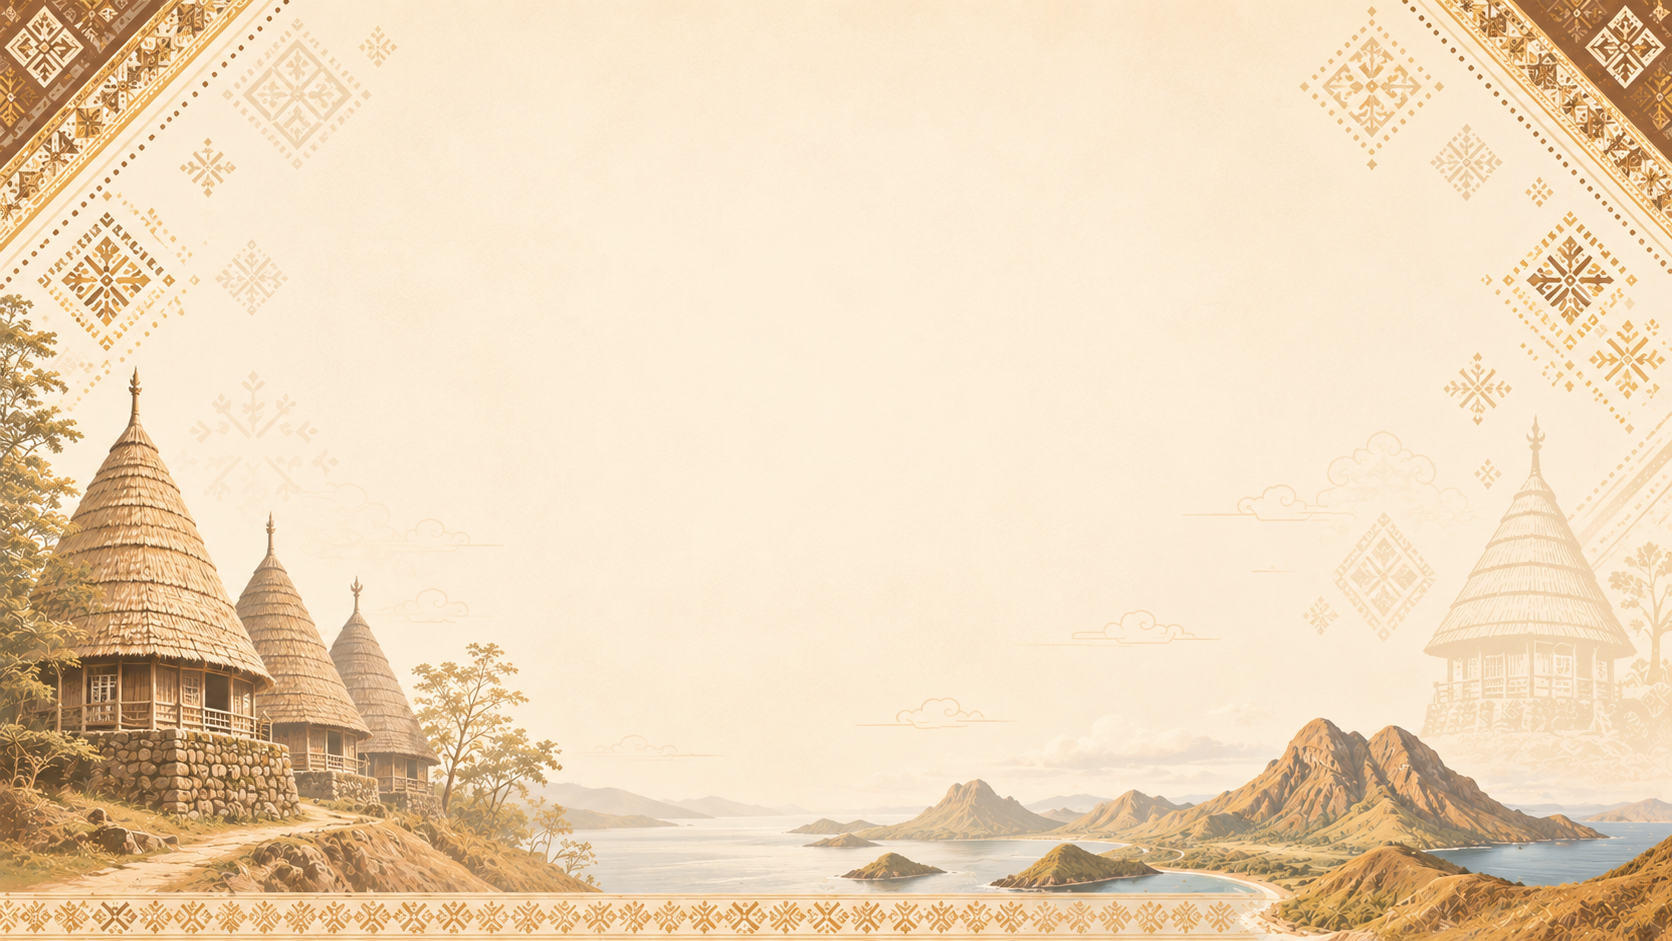
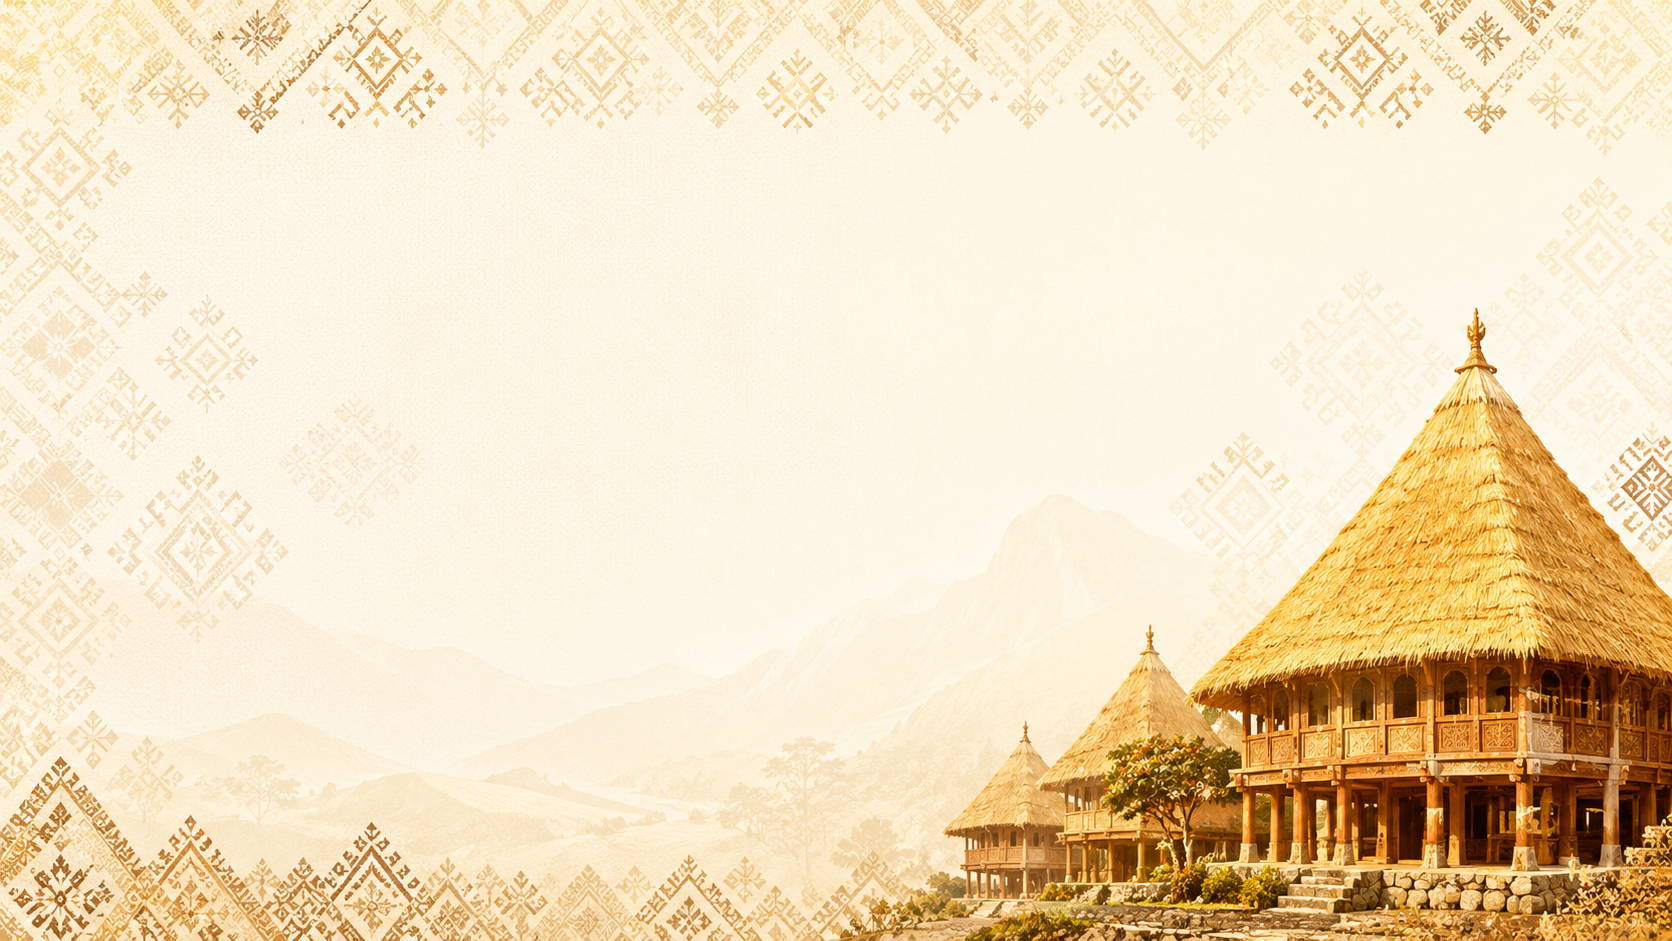
Menambahkan hero card dan menyempurnakan tampilan portofolio

diff --git a/css/style.css b/css/style.css
@@ -18,25 +18,20 @@ html{
 
 
 body{
-
     font-family:'Poppins', sans-serif;
-
     color:#4B362B;
 
     background:
     linear-gradient(
-        rgba(248,244,238,.88),
-        rgba(248,244,238,.88)
+        rgba(255,255,255,.65),
+        rgba(255,255,255,.65)
     ),
     url("../images/background-songke.png");
 
-    background-repeat:no-repeat;
-    background-size:cover;
-    background-position:center;
-    background-attachment:fixed;
-
-    background-color:#F8F4EE;
-
+    background-size: cover;
+    background-position: center;
+    background-repeat: no-repeat;
+    background-attachment: fixed;
 }
 
 
@@ -1635,4 +1630,136 @@ section{
     }
 
 }
+ /* =====================================
+   HERO CARD
+===================================== */
 
+.hero-kiri{
+
+    background:rgba(255,255,255,.72);
+
+    backdrop-filter:blur(12px);
+    -webkit-backdrop-filter:blur(12px);
+
+    border:1px solid rgba(139,94,60,.15);
+
+    border-radius:28px;
+
+    padding:45px;
+
+    box-shadow:
+    0 15px 35px rgba(0,0,0,.08);
+
+    transition:.35s;
+
+}
+
+
+.hero-kiri:hover{
+
+    transform:translateY(-6px);
+
+    box-shadow:
+    0 22px 45px rgba(0,0,0,.12);
+
+}
+
+
+.hero h1{
+
+    margin-bottom:10px;
+
+}
+
+
+.hero h3{
+
+    margin-bottom:18px;
+
+}
+
+
+.deskripsi{
+
+    margin-top:18px;
+
+    line-height:1.9;
+
+    color:#555;
+
+}
+
+
+/* Tombol Hero */
+
+.hero .btn{
+
+    margin-top:30px;
+
+}
+
+
+/* =====================================
+   RESPONSIVE HERO CARD
+===================================== */
+
+@media screen and (max-width:768px){
+
+    .hero{
+
+        gap:35px;
+
+    }
+
+    .hero-kiri{
+
+        width:100%;
+
+        padding:28px;
+
+        border-radius:22px;
+
+        text-align:center;
+
+    }
+
+    .hero h1{
+
+        font-size:30px;
+
+    }
+
+    .hero h3{
+
+        font-size:18px;
+
+    }
+
+    .deskripsi{
+
+        font-size:15px;
+
+        line-height:1.8;
+
+    }
+
+}
+
+
+@media screen and (max-width:480px){
+
+    .hero-kiri{
+
+        padding:22px;
+
+        border-radius:18px;
+
+    }
+
+    .hero h1{
+
+        font-size:27px;
+
+    }
+
+}
